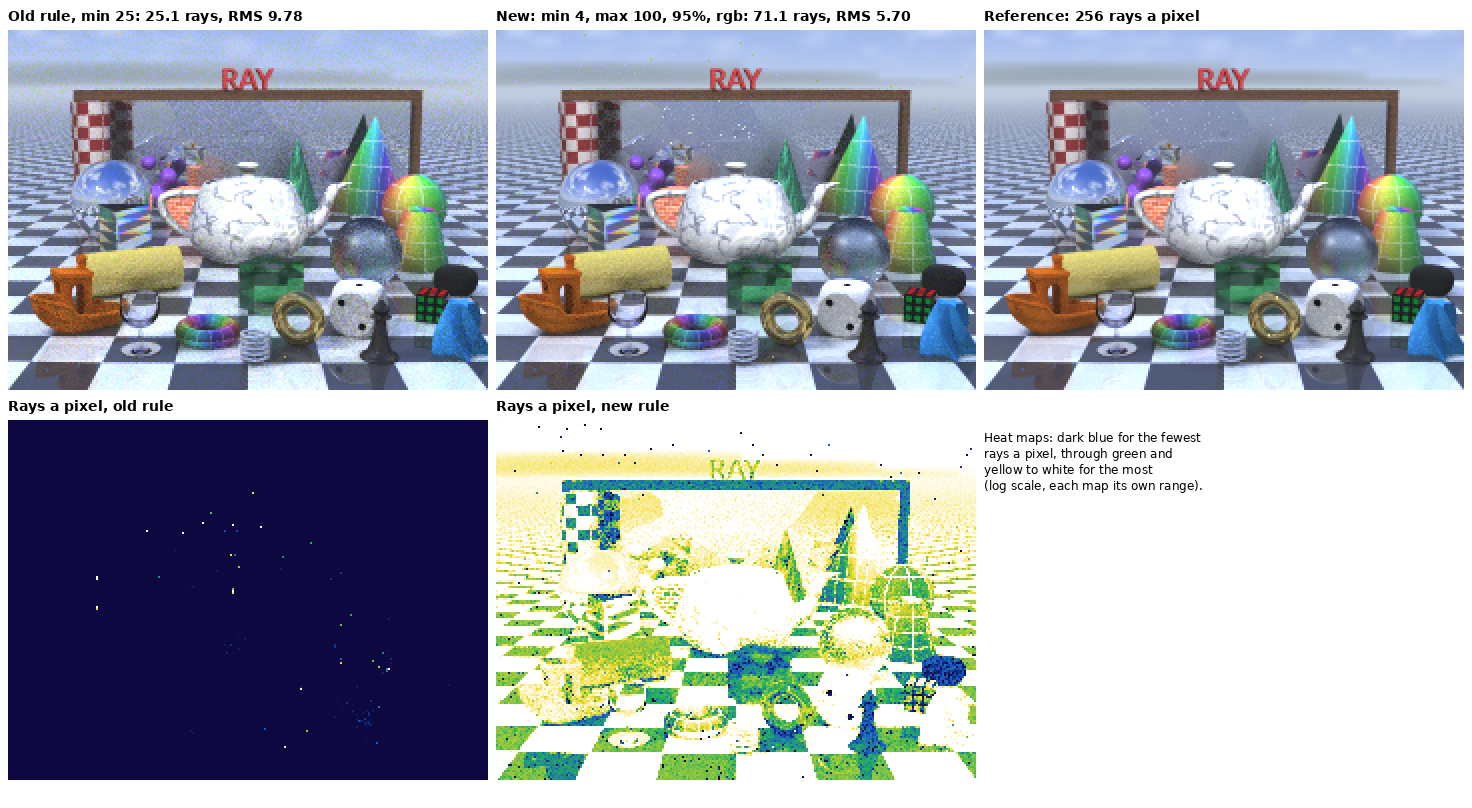
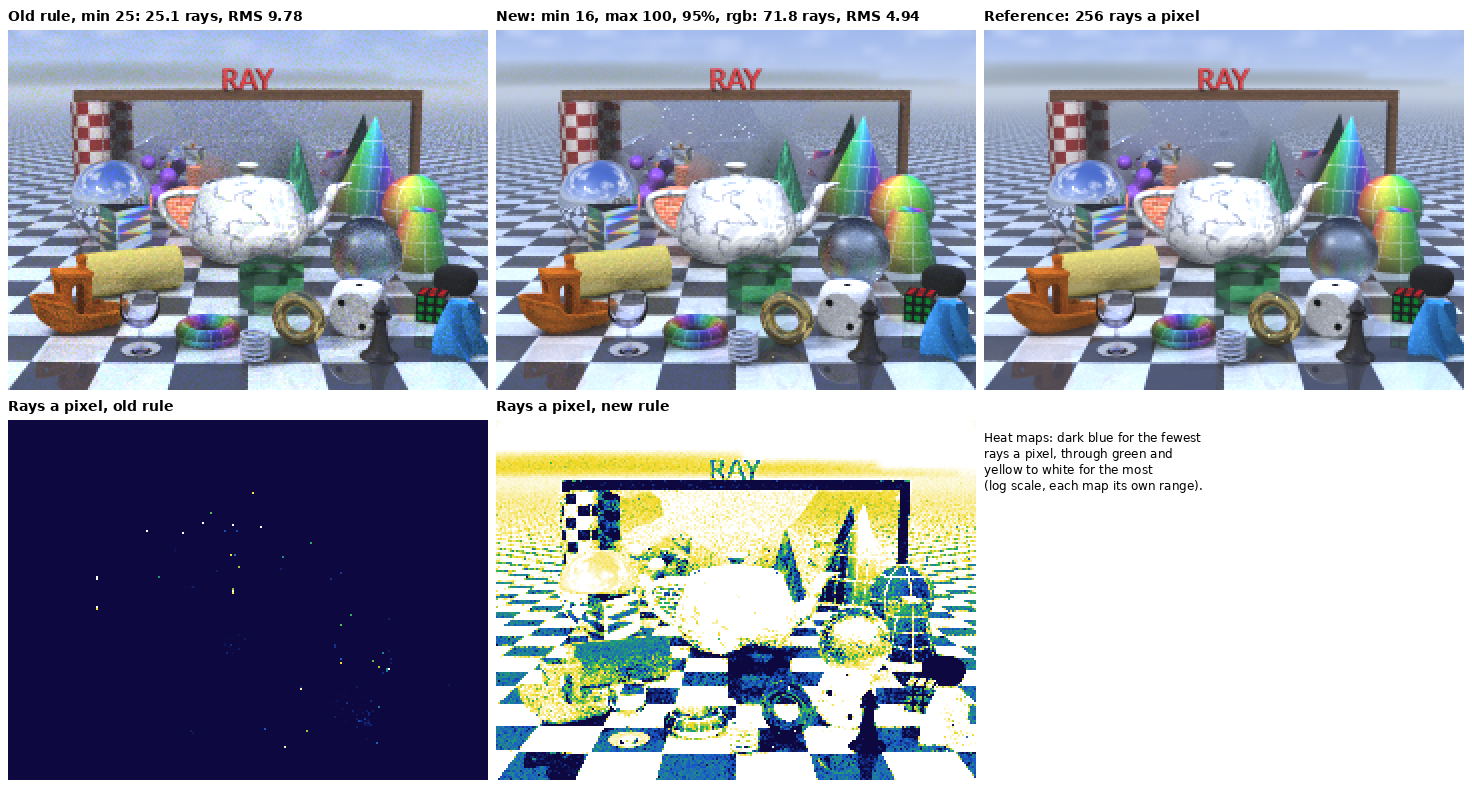
Release 2026-alpha-0.20.1: studies and showcases
- The torture test is labelled torture and left out of every CI job
  (ctest -LE torture); it runs locally in the full preset before merges.
- The torture test is sharper: f/8 at 200 mm a unit, focused at 18, and
  its torus is the new metal material. Its full-size image uses
  adaptive:min=16,max=100,threshold=0.004,confidence=0.95,channels=rgb.
- The adaptive sampler takes an opt-in confidence (Student's t) and
  per-channel errors; raythrower --ray-count writes a heat map.
  tools/adaptive_sweep.py measured them: half the torture test's error,
  but min stays at 16.
- A glTF 2.0 reader (core/src/GltfFile.cpp) with a mesh's node,
  gltfMaterial and files; tools/gltf_decompress.py for Draco files.
- The metal material: a conductor's Fresnel reflectance from n + ik.
- Showcases: the Najdorf chessboard in depth of field (Poly Haven's CC0
  chess set) and a recreation of NASA's AS11-40-5903 (NASA's astronaut
  and lunar module).
- Indirect light studies in scenes/studies/.

CHANGELOG.md, README.md, scenes/README.md, scenes/models/README.md,
tools/README.md, NOTICE and CLAUDE.md are updated.

Changed region(s): [[0.3125, 0.5569, 0.6875, 0.9901], [0.375, 0.0, 0.625, 0.0309]]

diff --git a/core/include/AdaptiveSampler.h b/core/include/AdaptiveSampler.h
@@ -30,7 +30,8 @@
 *        error, is under "threshold". With few rays t is large (12.7 at  *
 *        2 rays, 3.18 at 4 for 95%), so a handful of rays that happen to *
 *        agree must agree much more closely before they are trusted,     *
-*        and "min" can be as low as 4.                                   *
+*        though "min" should stay near 16: rays that agree exactly have  *
+*        no spread for t to widen (measured in 2026-alpha-0.20.1).       *
 *     "channels" ("brightness", the default, or "rgb"): measure the      *
 *        error in red, green and blue apart and use the largest, so a    *
 *        pixel whose color varies but whose brightness doesn't (a        *

diff --git a/CHANGELOG.md b/CHANGELOG.md
@@ -44,7 +44,8 @@ before; only the torture test changes.
 - **Adaptive sampling that trusts a few rays only when they agree** (opt-in; existing `adaptive`
   settings sample exactly as before): `confidence` stops once Student's t for that confidence times
   the standard error is under `threshold`, so four rays that happen to agree must agree about three
-  times more closely than the plain rule asks before they are believed, and `min` can be 4;
+  times more closely than the plain rule asks before they are believed (though `min` should stay
+  near 16, below);
   `"channels": "rgb"` measures red, green and blue apart. `raythrower --ray-count heat.png` writes a
   heat map of each pixel's rays (threads only). Measured with the new `tools/adaptive_sweep.py` at
   240×180 against 256 rays a pixel (CPU seconds on a machine running other work):
@@ -53,7 +54,8 @@ before; only the torture test changes.
   |---|---|---|---|---|
   | `min=25,max=256,threshold=0.004` (the 0.20 command) | 25.1 | 466 | 9.78 | 20.95 |
   | `min=4,max=256,threshold=0.004,confidence=0.95,channels=rgb` | 85.4 | 1,529 | 6.21 | 14.56 |
-  | **`min=4,max=100,threshold=0.004,confidence=0.95,channels=rgb`** | **71.1** | **1,061** | **5.70** | **14.76** |
+  | `min=4,max=100,threshold=0.004,confidence=0.95,channels=rgb` | 71.1 | 1,061 | 5.70 | 14.76 |
+  | **`min=16,max=100,threshold=0.004,confidence=0.95,channels=rgb`** | **71.8** | **1,273** | **4.94** | **12.07** |
   | `min=4,max=100,threshold=0.006,confidence=0.95,channels=rgb` | 38.9 | 545 | 9.28 | 22.24 |
   | `min=4,max=64,threshold=0.006,confidence=0.9,channels=rgb` | 27.3 | 399 | 11.14 | 27.01 |
   | `min=9,max=100,threshold=0.004` (the plain rule) | 9.4 | 148 | 15.92 | 33.89 |
@@ -61,9 +63,25 @@ before; only the torture test changes.
   On the sharpened torture test the plain rule believes nearly every pixel at its first 25 rays
   (25.1 on average) though they are still noisy (9.78), which is the trap the confidence factor is
   for: with it, pixels whose rays only seem to agree keep going. The bold row is the new full-size
-  torture command: 42% less error than the 0.20 command for 2.3 times its rays. A cap of 100
-  measured better than 256 at fewer rays, since a pixel's wavelength strata are counted out of the
-  cap and a pixel that stops early covers more of them when the cap is near what it uses.
+  torture command: half the error of the 0.20 command (4.94 against 9.78) for 2.9 times its rays.
+  A cap of 100 measured better than 256 at fewer rays, since a pixel's wavelength strata are
+  counted out of the cap and a pixel that stops early covers more of them when the cap is near what
+  it uses. **Starting at 4 rays is not safe, though:** on the soft test (frosted glass and area
+  lights) and the chessboard, `min=4` gave about twice the error of the plain rule at similar rays,
+  because four rays that happen to agree have no spread at all, and no confidence factor can widen
+  a zero. Minimum 16 with the confidence factor fixed both:
+
+  | Scene, sampler | Rays a pixel | RMS, whole | RMS, worst tenth |
+  |---|---|---|---|
+  | soft, `min=25,max=256,threshold=0.004` (plain) | 114.2 | 2.49 | 7.19 |
+  | soft, `min=9,max=100,threshold=0.004` (plain) | 44.7 | 3.71 | 10.79 |
+  | soft, `min=4,max=100,threshold=0.004,confidence=0.95,channels=rgb` | 48.3 | 5.52 | 16.76 |
+  | soft, `min=16,max=100,threshold=0.004,confidence=0.95,channels=rgb` | 56.6 | 3.28 | 9.57 |
+  | chess, `min=25,max=256,threshold=0.004` (plain) | 89.7 | 2.17 | 6.22 |
+  | chess, `min=9,max=100,threshold=0.004` (plain) | 39.0 | 4.21 | 12.68 |
+  | chess, `min=4,max=100,threshold=0.004,confidence=0.95,channels=rgb` | 56.3 | 4.67 | 14.43 |
+
+  So the confidence factor and per-channel errors earn their keep, but `min` stays at 16.
 
   ![The torture test's rays a pixel under the old and new adaptive settings](docs/images/changelog/adaptive-rays.png)
 
@@ -75,7 +93,7 @@ before; only the torture test changes.
   Nbd7 11.g4 b5, played out by python-chess in the new `tools/make_showcase_scenes.py`, on a full
   board with Poly Haven's Chess Set (CC0, its glTF committed unmodified), through the double Gauss
   wide open and focused on Black's e5 pawn, with lights behind the board blurring into bokeh discs.
-  The README's lens section shows it at 1024×768 (with `--aa adaptive:min=4,max=256,threshold=0.004,confidence=0.95,channels=rgb`: 112 rays a pixel on average, 6,087 CPU-seconds).
+  The README's lens section shows it at 1024×768 (with `--aa adaptive:min=16,max=100,threshold=0.004,confidence=0.95,channels=rgb`: 3,131 CPU-seconds).
 
   ![The Najdorf chessboard in depth of field](docs/images/chess_dof.png)
 - **A recreation of NASA photograph AS11-40-5903** (`as11_40_5903_test.ray`): Aldrin in a white
@@ -123,12 +141,13 @@ before; only the torture test changes.
   with 200 mm a unit (the scene stands for a set four times larger), so everything from the front
   row to the mirror is sharp, where at f/2 the front row was a blur. Its gold torus is the `metal`
   material. The reference render, README preview and full-size image are regenerated; the
-  full-size image now uses `--aa adaptive:min=4,max=100,threshold=0.004,confidence=0.95,channels=rgb` (TORTURE_TIME, against 67,301 CPU-seconds for 0.20).
+  full-size image now uses `--aa adaptive:min=16,max=100,threshold=0.004,confidence=0.95,channels=rgb` (19,329 CPU-seconds, 69.4 rays a pixel on average; 43 minutes on a machine busy with other work, about 20 idle on 16 cores; against 67,301 CPU-seconds for 0.20).
 
   ![The torture test at 0.20 and 0.20.1](docs/images/changelog/torture-sharp.png)
 
   Look at the front row (the goblet, queen, star, spring and torus), which is sharp now, and the
-  gold torus, which reflects as gold does.
+  gold torus, which reflects as gold does. The frame is brighter at the edges too: stopped down,
+  the lens vignettes far less.
 - **Tests:** `render_`, `roundtrip_` and `network_` tests for the two showcase scenes, and
   `ShowcaseChecks` in `format_test`: a hand-built `.glb` (a padded stride, unsigned short indices,
   a parent's translation and a child's rotation, a base color), the same as a `.gltf` with its

diff --git a/README.md b/README.md
@@ -237,8 +237,8 @@ The ray tracing itself is the 1997 code.
   the pixel plus N random rays), `stratified` (an n×n grid of equally weighted rays, each at a
   random point in its cell; best for real lenses), or `adaptive` (at least 9 rays a pixel, then
   more only where they disagree: on the torture test, 28% less error than a 5×5 grid for the same
-  rays; with `confidence` it trusts a few agreeing rays only once Student's t says they agree, so it
-  can start at 4, and with `"channels": "rgb"` it watches color as well as brightness). Random points
+  rays; with `confidence` it trusts agreeing rays only once Student's t says they really agree, which
+  halves the torture test's error (for about three times the rays), and with `"channels": "rgb"` it watches color as well as brightness). Random points
   are reproducible, so every run gives the same image. `raythrower --ray-count heat.png` draws how
   many rays each pixel took.
 - **Camera:** pinhole camera with position, look-at point, up vector, and vertical field of view;
@@ -259,7 +259,7 @@ The ray tracing itself is the 1997 code.
   Depth of field through the double Gauss wide open: the Najdorf Sicilian (English Attack, after
   11...b5) on a full board, Poly Haven's chess set, focused on Black's e5 pawn, with lights behind
   the board blurring into bokeh discs (`scenes/chess_dof_test.ray` at 1024×768 with `--aa
-  adaptive:min=4,max=256,threshold=0.004,confidence=0.95,channels=rgb`):
+  adaptive:min=16,max=100,threshold=0.004,confidence=0.95,channels=rgb`):
 
   <img src="docs/images/chess_dof.png" alt="A chessboard in the Najdorf Sicilian through a wide-open lens: the near white pieces blurred, the pieces in the middle of the board sharp, the far ones softening, and warm lights behind the board blurred into discs" width="720">
 - **Color models:** the last step from pixel color to bytes is pluggable too: `clip` (the 1997
@@ -455,7 +455,7 @@ raythrower scenes/teapot.ray --aa corners --ppm teapot.ppm
 ```
 
 **Render the torture test**, every kind of object (the teapot too, in marble, traced from its 32 Bézier patches, and a layer-lined
-3DBenchy, a colored-STL puzzle cube, an OBJ ring, a gold torus, "RAY" in beveled letters set in
+3DBenchy, a colored-STL puzzle cube, an OBJ ring, a gold torus that reflects as gold does (the `metal` material), "RAY" in beveled letters set in
 Lato Bold on top of the mirror frame, a glass goblet and a black queen turned on a lathe, a twisted, tapered star, a steel spring
 and a purple cluster of metaballs), mirrors, glass
 (the cube with green swirls inside, the ball frosted, the mirror frosted in patches, a flint prism fanning colors into a spectrum), a die with drilled
@@ -471,12 +471,13 @@ full 1024×768 takes about eight and a half minutes on an idle 16-core machine w
 raythrower scenes/torture_test.ray --png torture.png --hdr torture.hdr
 ```
 
-The image below is rendered with the adaptive sampler instead (at least 25 rays a pixel, up to 256
-where they disagree), which is much cleaner and takes about eight times as long (about 68 minutes on an idle
-16-core machine):
+The image below is rendered with the adaptive sampler instead (at least 16 rays a pixel, up to 100
+where Student's t says they don't yet agree, watching red, green and blue apart), which is much
+cleaner: 69 rays a pixel on average, about 20 minutes on an idle 16-core machine (19,329
+CPU-seconds):
 
 ```sh
-raythrower scenes/torture_test.ray --aa adaptive:min=25,max=256,threshold=0.004 --png torture.png
+raythrower scenes/torture_test.ray --aa adaptive:min=16,max=100,threshold=0.004,confidence=0.95,channels=rgb --png torture.png
 ```
 
 <img src="docs/images/torture_test.png" alt="The torture test at 1024x768: a marble teapot among mirrors, glass, a flint prism, a drilled die, an orange 3DBenchy, a puzzle cube, a textured ring, a gold torus, a lump of regolith, textured shapes and a wood-framed mirror wall with RAY in red letters on top under an HDR sky in a light haze, through a real lens" width="720">

diff --git a/scenes/README.md b/scenes/README.md
@@ -201,8 +201,8 @@ rays, then more until the standard error of its brightness, on the scale where 1
 `threshold`, or it has `max`; rays follow a low-discrepancy sequence, reproducible like the others;
 two opt-in refinements, added in 2026-alpha-0.20.1: `"confidence": 0.95` (default `0`, off; else 0.5
 to 0.999) stops once Student's t for that confidence times the standard error is under `threshold`,
-so a few rays that happen to agree must agree much more closely (t is 3.18 at 4 rays) and `min` can
-be as low as 4, and `"channels": "rgb"` (default `"brightness"`) measures red, green and blue apart
+so a few rays that happen to agree must agree much more closely (t is 3.18 at 4 rays; keep `min` at
+about 16 all the same, since rays that agree exactly have no spread for t to widen), and `"channels": "rgb"` (default `"brightness"`) measures red, green and blue apart
 and uses the worst, so a pixel that changes color but not brightness keeps sampling),
 `{ "type": "gamma", "gamma": 2.2 }`, or
 `{ "type": "reinhard", "exposure": 1, "white": 4 }`

diff --git a/CLAUDE.md b/CLAUDE.md
@@ -86,7 +86,7 @@ ctest --preset full             # every test
   same change, and regenerate its reference render, README preview and the full-size
   `docs/images/torture_test.png`. Render the full-size image with a Release build and the adaptive
   sampler, always the same way: `raythrower scenes/torture_test.ray --aa
-  adaptive:min=4,max=100,threshold=0.004,confidence=0.95,channels=rgb --png docs/images/torture_test.png` (the `render_torture`
+  adaptive:min=16,max=100,threshold=0.004,confidence=0.95,channels=rgb --png docs/images/torture_test.png` (the `render_torture`
   test keeps the scene's own 5×5 stratified sampler at 160×120). Report its time in the changelog.
   The `render_torture` test is labelled `torture`, and CI leaves it out (`ctest -LE torture`):
   run it locally (the `full` preset does) before every merge.
